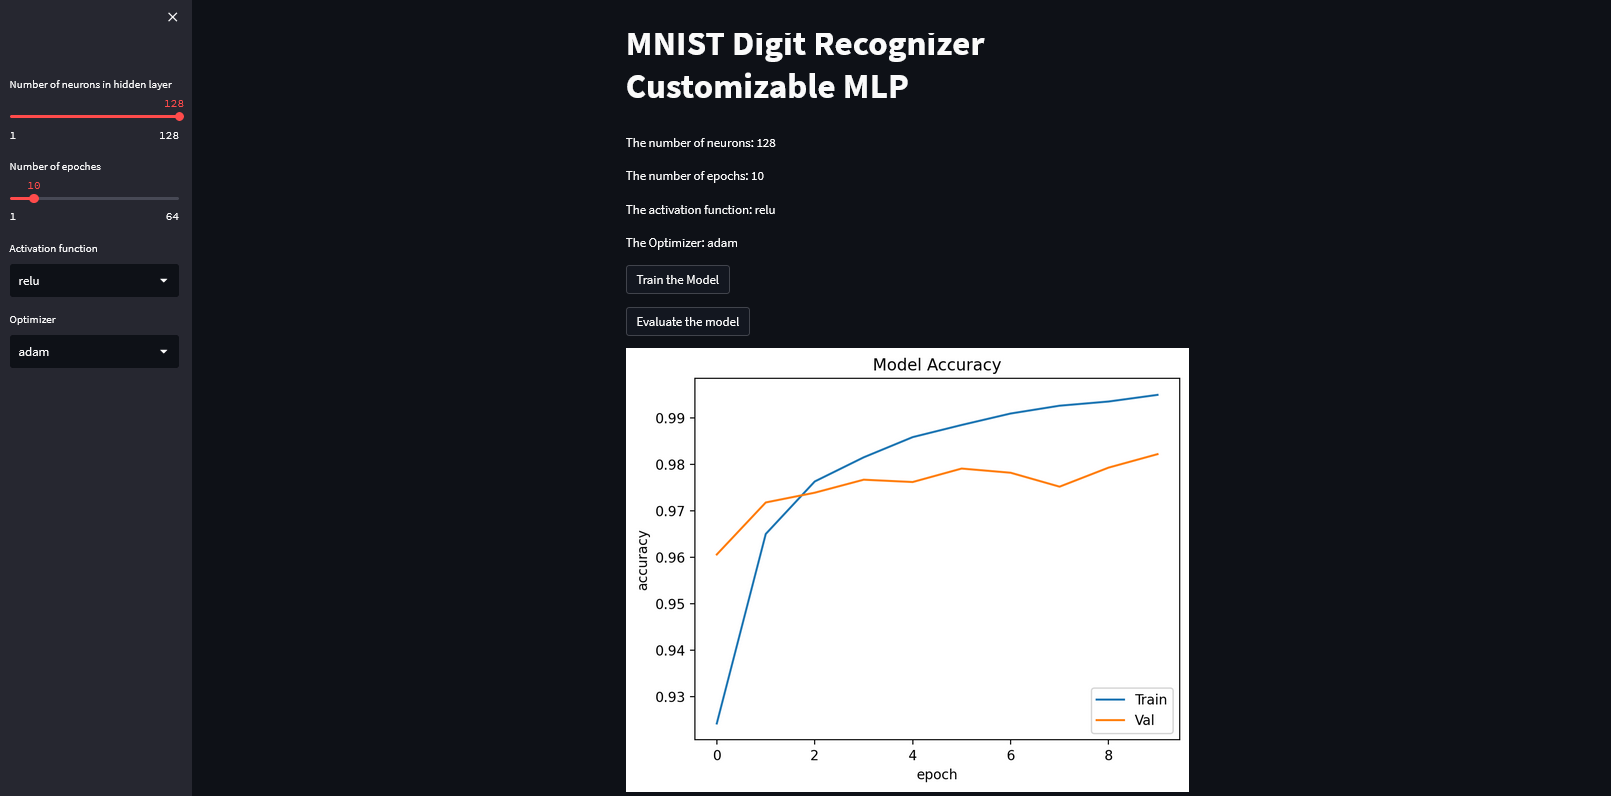
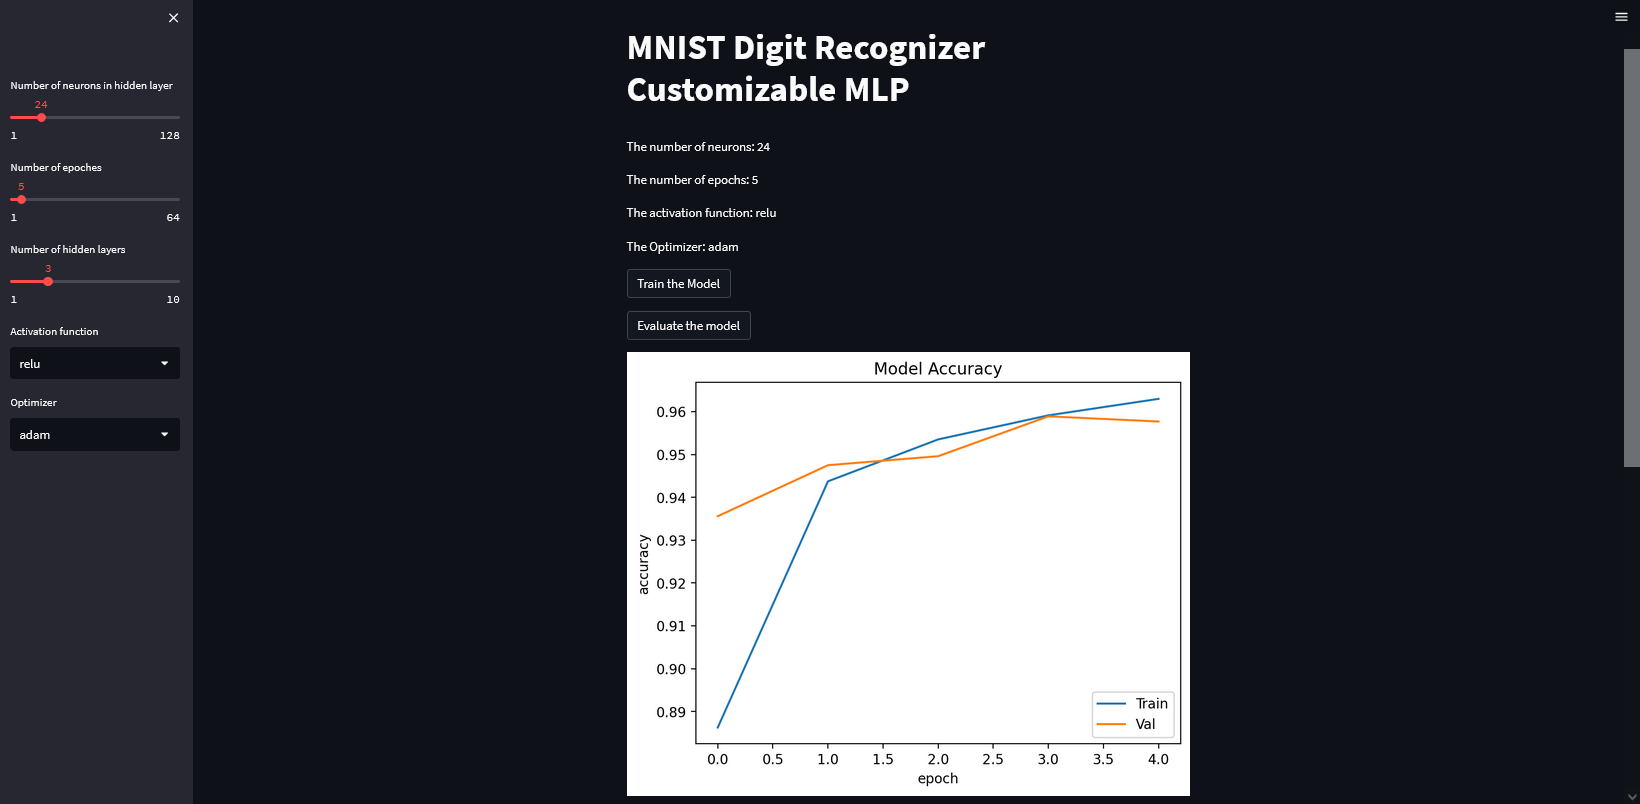
add num_hidden

diff --git a/app.py b/app.py
@@ -16,6 +16,7 @@ st.title("MNIST Digit Recognizer Customizable MLP")
 ### Model Hyperprameters
 num_neurons = st.sidebar.slider("Number of neurons in hidden layer", 1, 128)
 num_epochs = st.sidebar.slider("Number of epoches", 1, 64)
+num_hidden = st.sidebar.slider("Number of hidden layers", 1, 10)
 activation_fn = st.sidebar.selectbox("Activation function",
     ('relu', 'tanh', 'sigmoid', 'softmax', 'softplus',
     'softsign', 'selu', 'elu', 'exponential'))
@@ -36,11 +37,12 @@ X_train = X_train / 255.0
 X_test  = X_test / 255.0
 
 ## Create the model
-model = Sequential([
-    Flatten(input_shape=(28, 28)),
-    Dense(num_neurons, activation_fn),
-    Dense(10, activation='softmax')
-])
+model = Sequential()
+model.add(Flatten(input_shape=(28, 28)))
+for i in range(num_hidden):
+    model.add(Dense(num_neurons, activation_fn))
+model.add(Dense(10, activation='softmax'))
+
 # Compile the model
 model.compile(optimizer=optimizer_c, loss='sparse_categorical_crossentropy', metrics=['accuracy'])
 
